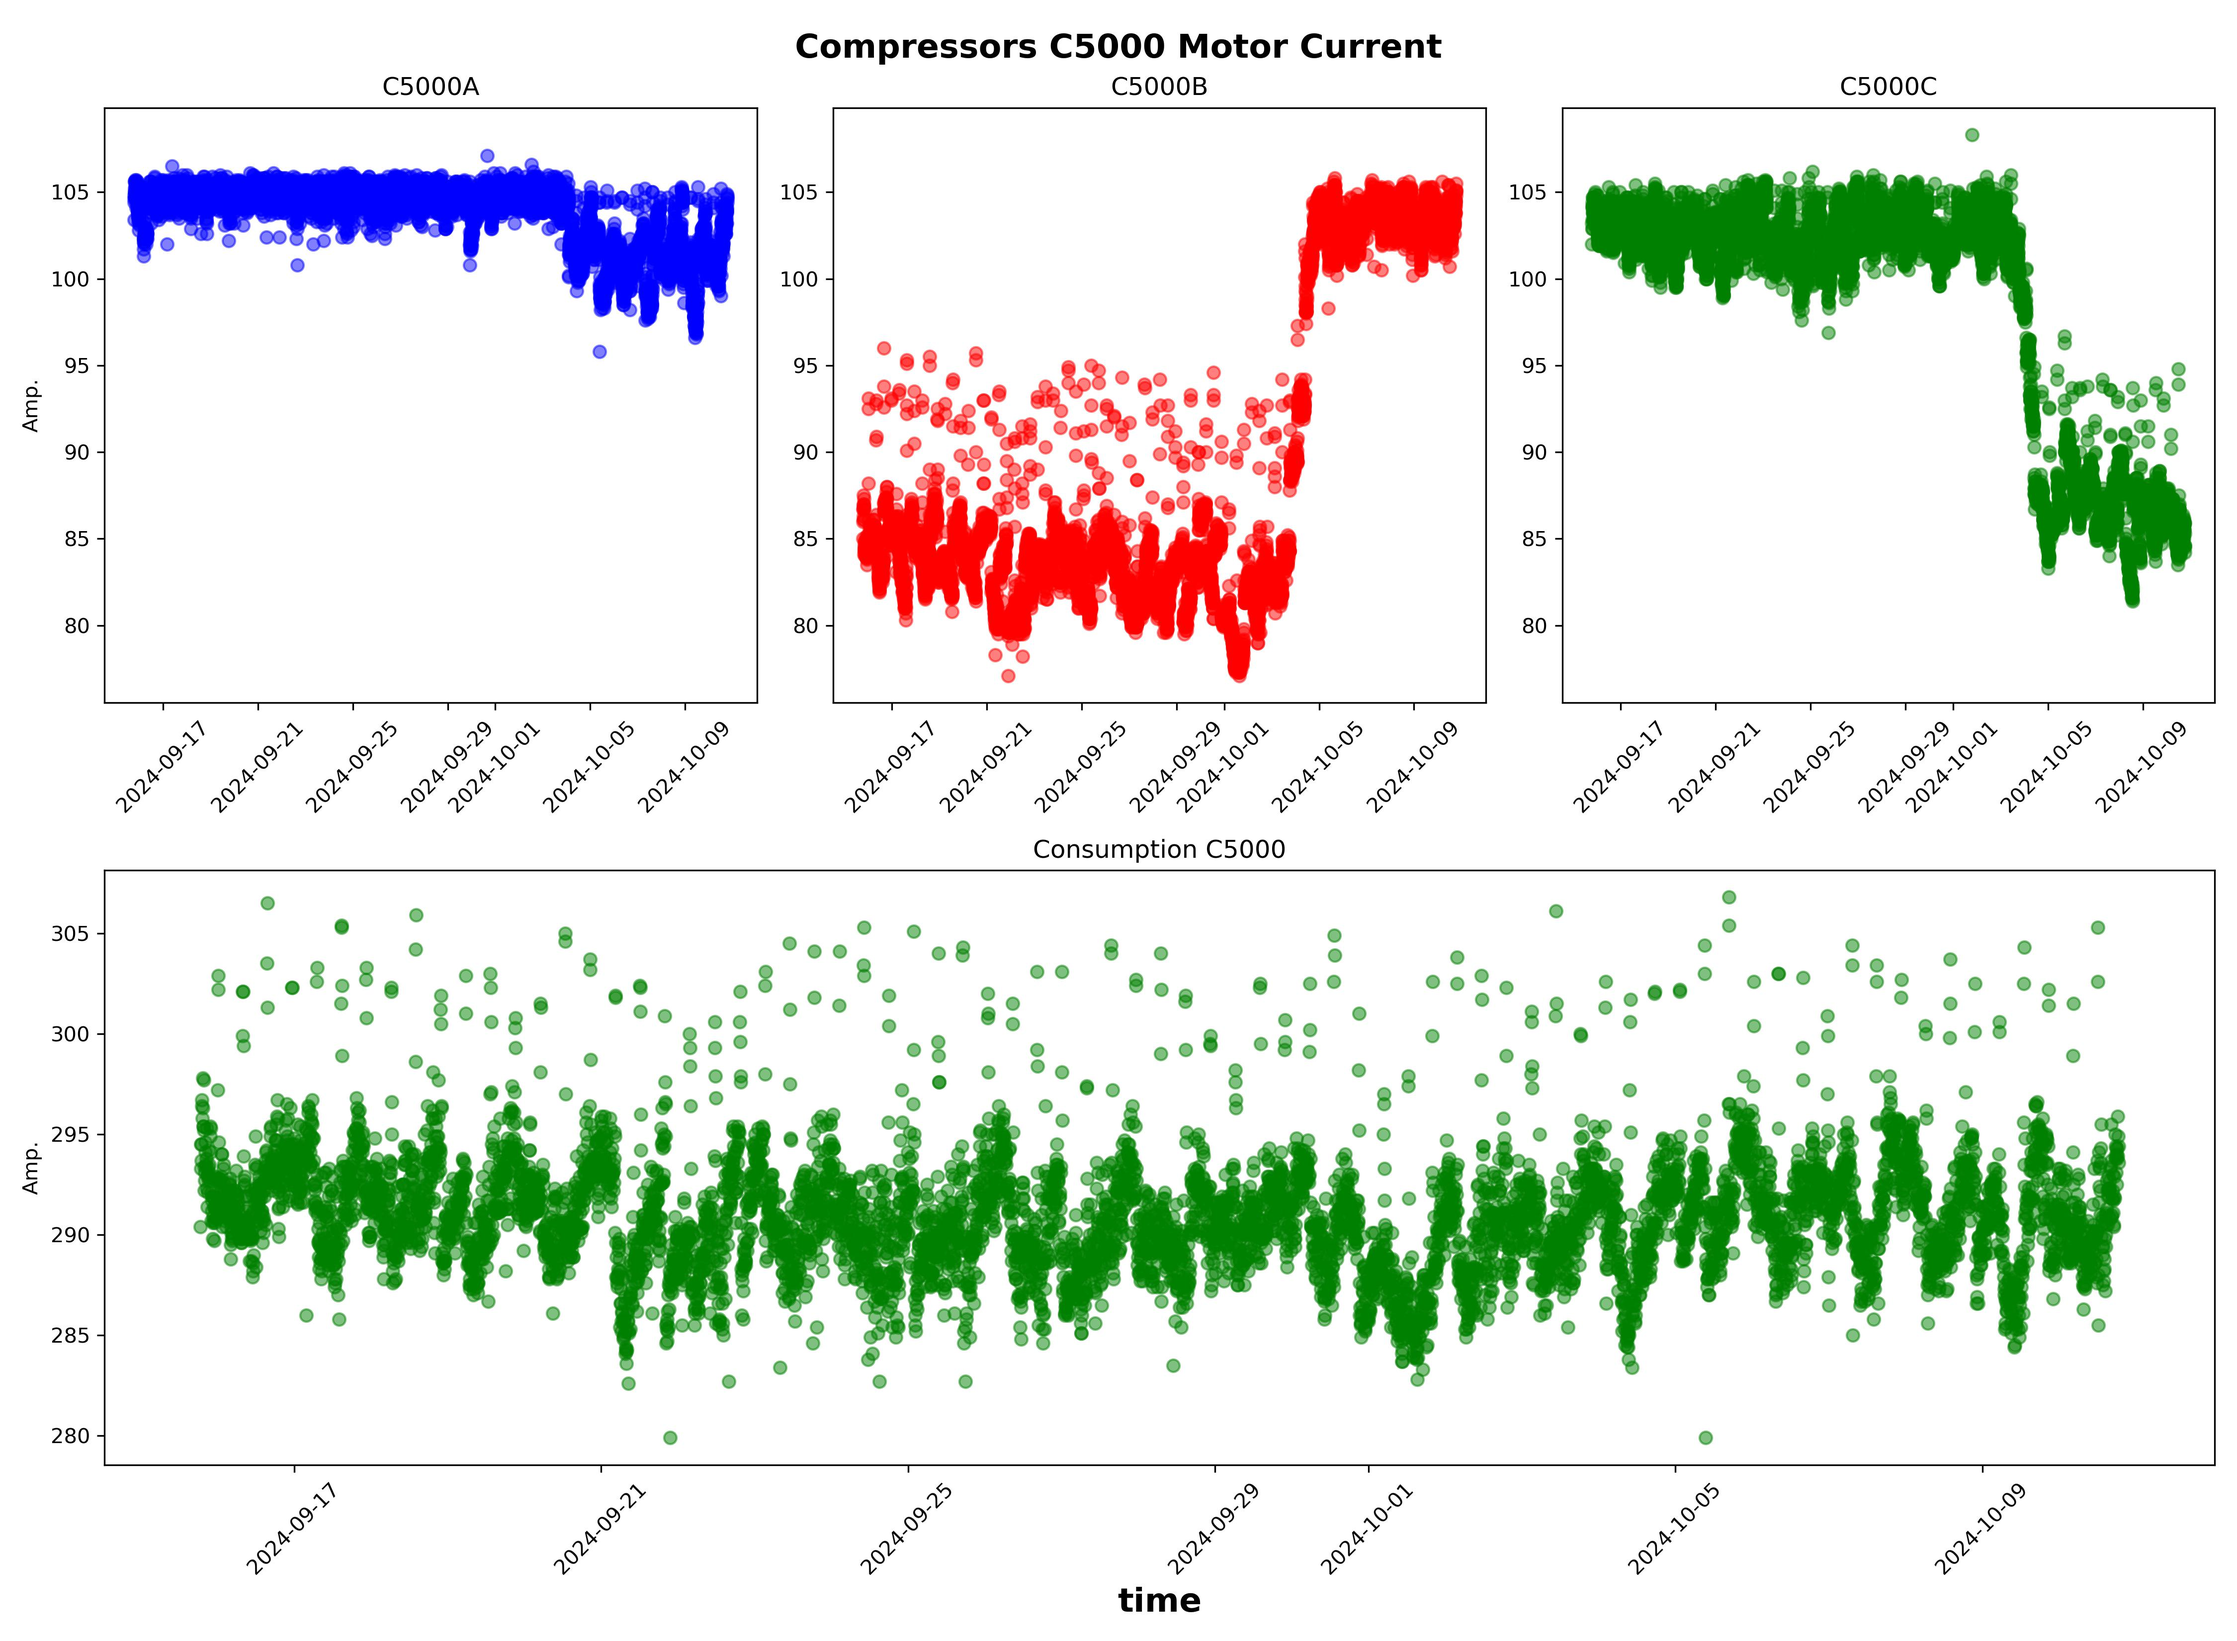
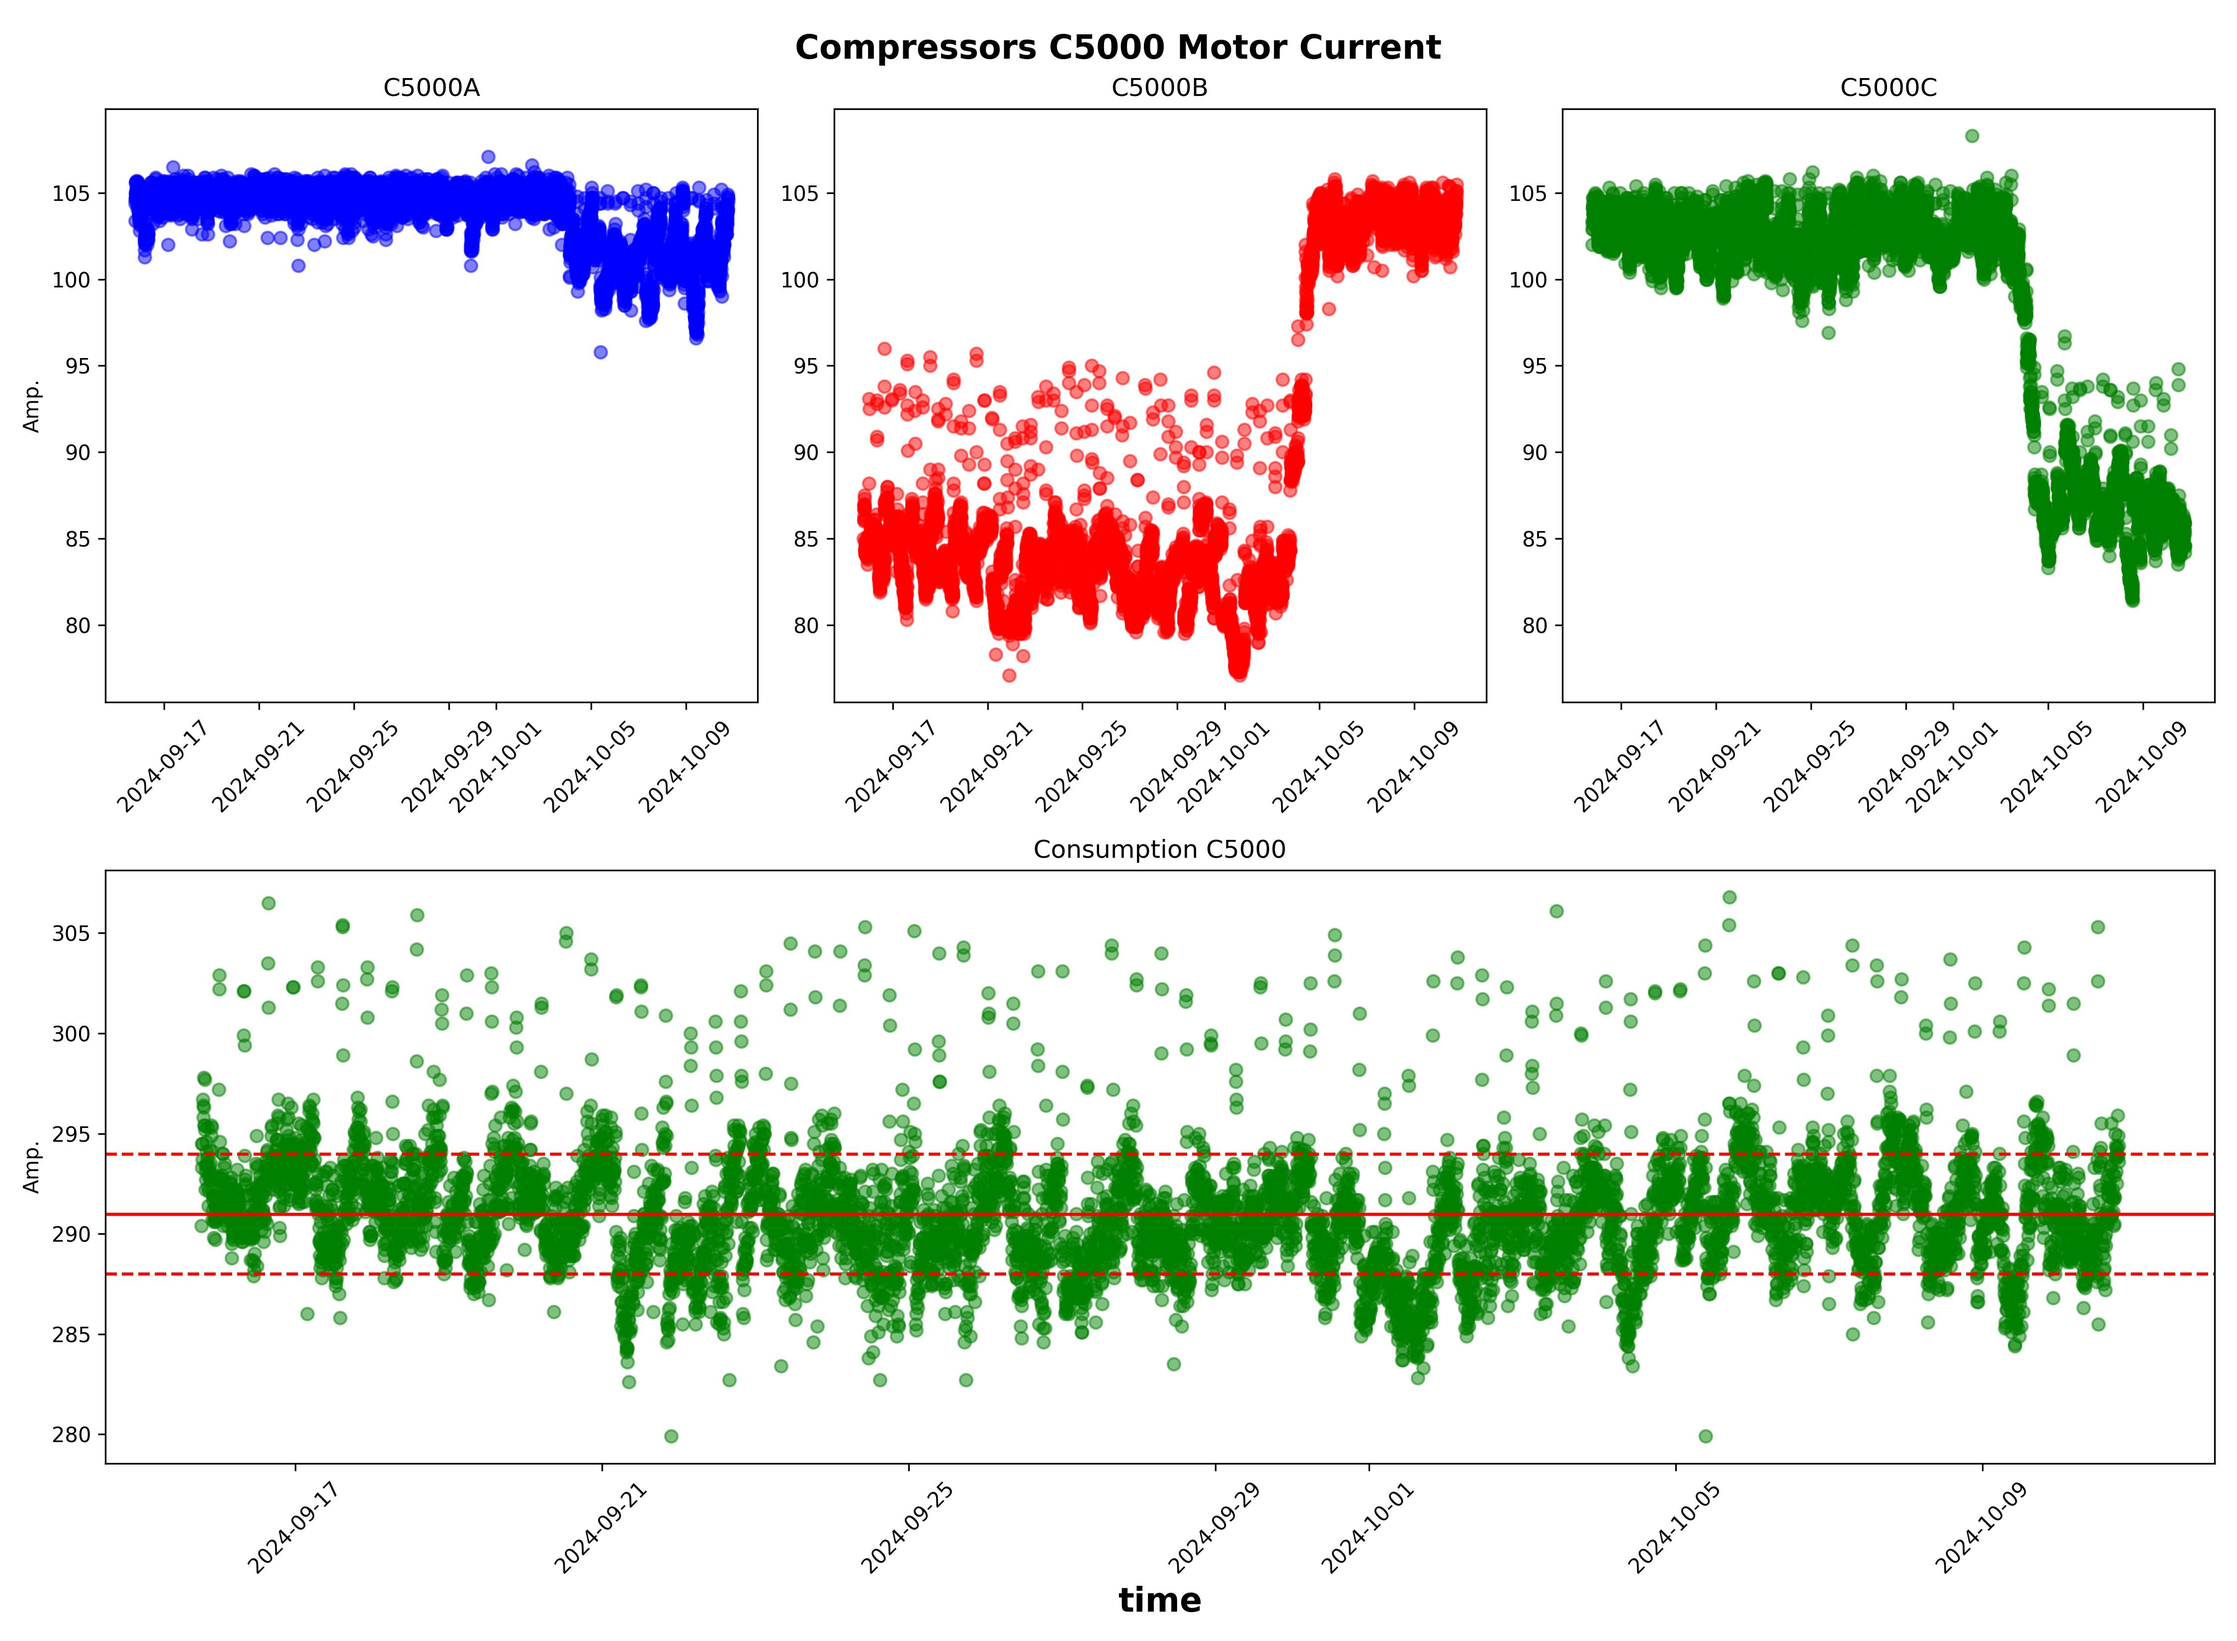
update

diff --git a/code/oxy.py b/code/oxy.py
@@ -45,10 +45,8 @@ def set_oxygen_purity_levels(x):
 #~~~~~~~~~~~~~~~~~~~~~~~~~~~~~~~~~~~~~~~~~~~~~~~~~~~~~~~
 
 #//data base preparation
-
 df = pd.read_csv(f"{working_dir}/data/Oxygen_Plant_24Days.csv")
 #print(df.info())
-
 
 #// add tarikh column
 df["tarikh"] = df["time"].apply(date_time_add)
@@ -57,7 +55,6 @@ df["tarikh"] = df["time"].apply(date_time_add)
 #// add C5000 total current
 df['C5000_total_current'] = df['CT001 Motor current (C5000A)']+df['CT001 Motor current (C5000B)']+df['CT001 Motor current (C5000C)']
 #print(df.tail())
-
 
 #// Normaliz Data
 normal_data = normalization(df.drop(["time","tarikh"] ,axis= 1))
@@ -79,16 +76,19 @@ ax1 = fig.subplots(1,1)
 sns.heatmap(corr, cbar=False,square= False, fmt='.1f', annot=True, annot_kws={'size':3}, cmap='Greens',ax= ax1)
 fig.tight_layout()
 #plt.savefig(f'{working_dir}/fig/Correlation_Coefficient.jpg')
-plt.show()
+#plt.show()
+fig.clear()
 
-#// Histogram of O2 production
+#// Histogram of Air production
 fig = plt.figure(figsize=(15,11),dpi=300)
-fig.suptitle('O2 Production', fontsize=16,fontweight='bold')
+fig.suptitle('Air Production After Dust Filter', fontsize=18,fontweight='bold')
 ax1 = fig.subplots(1,1)
+ax1.set_xlabel('FI580   (Nm3/h)', fontsize=16,fontweight='bold')
 sns.histplot(data=df["FI580 Vessel V5000B pressure"], binwidth=100 ,ax= ax1)
 fig.tight_layout()
 #plt.savefig(f'{working_dir}/fig/Production_Hist.jpg')
-plt.show()
+#plt.show()
+fig.clear()
 
 #// Compressors C5000 Motor Current
 fig = plt.figure(figsize=(15,11),dpi=300)
@@ -98,130 +98,162 @@ ax1=fig.add_subplot(gs[0,0])
 ax2=fig.add_subplot(gs[0,1], sharey=ax1)
 ax3=fig.add_subplot(gs[0,2], sharey=ax1)
 ax4=fig.add_subplot(gs[1,:])
-ax1.scatter(x=df['tarikh'], y= df['CT001 Motor current (C5000A)'], color='blue', label='y1',alpha=0.5)
+ax1.scatter(x=df['tarikh'], y= df['CT001 Motor current (C5000A)'], color='blue',alpha=0.5)
 ax1.set_title('C5000A')
 ax1.set_ylabel('Amp.')
 ax1.tick_params(axis="x",labelrotation=45)
-ax2.scatter(x=df['tarikh'], y= df['CT001 Motor current (C5000B)'], color='red', label='y2',alpha=0.5)
+ax2.scatter(x=df['tarikh'], y= df['CT001 Motor current (C5000B)'], color='red',alpha=0.5)
 ax2.set_title('C5000B')
 ax2.tick_params(axis="x",labelrotation=45)
-ax3.scatter(x=df['tarikh'], y= df['CT001 Motor current (C5000C)'], color='green', label='y3',alpha=0.5)
+ax3.scatter(x=df['tarikh'], y= df['CT001 Motor current (C5000C)'], color='green',alpha=0.5)
 ax3.set_title('C5000C')
 ax3.tick_params(axis="x",labelrotation=45)
-ax4.scatter(x=df['tarikh'], y= df['C5000_total_current'], color='green', label='y3',alpha=0.5)
+ax4.scatter(x=df['tarikh'], y= df['C5000_total_current'], color='green',alpha=0.5)
 ax4.set_title('Consumption C5000')
 ax4.tick_params(axis="x",labelrotation=45)
 ax4.set_xlabel('time', fontsize=16,fontweight='bold')
 ax4.set_ylabel('Amp.')
 fig.tight_layout()
+plt.axhline(df['C5000_total_current'].mean(), c='red')
+plt.axhline(df['C5000_total_current'].mean()+df['C5000_total_current'].std(), c='red',linestyle='--')
+plt.axhline(df['C5000_total_current'].mean()-df['C5000_total_current'].std(), c='red',linestyle='--')
+#plt.annotate('27793 RPM', xy =(27795, 0.0023),rotation = 90,ha='center', fontsize=6,alpha = 0.8)
 #plt.savefig(f'{working_dir}/fig/C5000_Motor_Currents.jpg')
-plt.show()
-
+#plt.show()
+fig.clear()
 
 #// Product VS C5000 Compressor Motor Currents
-sns.set(rc = {'figure.figsize':(15,11),'figure.dpi':300})
-sns.displot(
-    data=df,
-    x=df['CT001 Motor current (C5000A)'],
-    hue=df['levels'],
-    hue_order=['L1 (29500-29600)Nm3/h','L2 (29600-29700)Nm3/h','L3 (29700-29800)Nm3/h','L4 (29800-29900)Nm3/h','L5 (29900-30000)Nm3/h'],
-    kind="kde", height=6,
-    fill=True,
-    alpha = 0.05,
-)
+fig = plt.figure(figsize=(15,11),dpi=300)
+fig.suptitle('C5000A Comp. VS Air Production', fontsize=18,fontweight='bold')
+ax1 = fig.subplots(1,1)
+ax1.set_xlabel('Amp.', fontsize=16,fontweight='bold')
+ax1.set_ylabel('FI580   (Nm3/h)', fontsize=16,fontweight='bold')
+sns.kdeplot(data=df, x='CT001 Motor current (C5000A)', y='FI580 Vessel V5000B pressure',fill=True, levels=10)
+fig.tight_layout()
 #plt.savefig(f'{working_dir}/fig/Product-Current_C5000A.jpg')
-plt.show()
+#plt.show()
+fig.clear()
 
 #//Air turbine outlet pressure VS products
-sns.set(rc = {'figure.figsize':(15,11),'figure.dpi':300})
-sns.displot(
+fig = plt.figure(figsize=(15,11),dpi=300)
+fig.suptitle('Tubine Pressure VS Air Production', fontsize=18,fontweight='bold')
+ax1 = fig.subplots(1,1)
+ax1.set_xlabel('bar', fontsize=16,fontweight='bold')
+sns.kdeplot(
     data=df,
-    x=df['PI210 Air turbine/booster outlet pressure'],
-    hue=df['levels'],
+    x='PI210 Air turbine/booster outlet pressure',
+    hue='levels',
     hue_order=['L1 (29500-29600)Nm3/h','L2 (29600-29700)Nm3/h','L3 (29700-29800)Nm3/h','L4 (29800-29900)Nm3/h','L5 (29900-30000)Nm3/h'],
-    kind="kde", height=6,
     fill=True,
     alpha = 0.05,
 )
-#plt.savefig(f'{working_dir}/fig/trubine pressure Vs Products.jpg')
+fig.tight_layout()
+plt.savefig(f'{working_dir}/fig/trubine pressure Vs Products.jpg')
 plt.show()
+fig.clear()
 
 #//C5000 Compressor VS O2 Purity
-sns.set(rc = {'figure.figsize':(15,11),'figure.dpi':300})
-sns.displot(
+fig = plt.figure(figsize=(15,11),dpi=300)
+fig.suptitle('Amp. C5000 Comp. VS O2 Purity', fontsize=18,fontweight='bold')
+ax1 = fig.subplots(1,1)
+ax1.set_xlabel('Amp.', fontsize=16,fontweight='bold')
+sns.kdeplot(
     data=df,
-    x=df['C5000_total_current'],
-    hue=df['O2_Purity'],
-    #hue_order=['L1 (29500-29600)Nm3/h','L2 (29600-29700)Nm3/h','L3 (29700-29800)Nm3/h','L4 (29800-29900)Nm3/h','L5 (29900-30000)Nm3/h'],
-    kind="kde", height=6,
+    x='C5000_total_current',
+    hue='O2_Purity',
     fill=True,
     alpha = 0.05,
 )
 plt.axvline(290, c='green')
-plt.annotate('290 Amp.', xy =(289.5, 0.05),rotation = 90,ha='center', fontsize=6,alpha = 0.8)
+plt.annotate('290 Amp.', xy =(289.5, 0.05),rotation = 90,ha='center', fontsize=20,alpha = 0.8)
 plt.axvline(292.5, c='green')
-plt.annotate('292.5 Amp.', xy =(292, 0.05),rotation = 90,ha='center', fontsize=6,alpha = 0.8)
+plt.annotate('292.5 Amp.', xy =(292, 0.05),rotation = 90,ha='center', fontsize=20,alpha = 0.8)
+fig.tight_layout()
 plt.savefig(f'{working_dir}/fig/C5000 Amp VS O2 purity.jpg')
-plt.show()
-
-
-
+#plt.show()
+fig.clear()
 
 #// Air turbine outlet Temprature VS pressure
 fig = plt.figure(figsize=(15,11),dpi=300)
-fig.suptitle('Air turbine outlet', fontsize=16,fontweight='bold')
+fig.suptitle('Air turbine outlet', fontsize=18,fontweight='bold')
 (ax1,ax2) = fig.subplots(1,2,sharex=True,sharey=True)
 ax1.scatter(x=df['PI210 Air turbine/booster outlet pressure'], y= df['TI210A Air turbine T2000A outlet temperature'], color='blue', label='y1',alpha=0.5)
-ax1.set_title('Turbine A')
-ax1.set_ylabel('Temp.')
+ax1.set_title('Turbine A', fontsize=16,fontweight='bold')
+ax1.set_ylabel('Temp.', fontsize=16,fontweight='bold')
 ax2.scatter(x=df['PI210 Air turbine/booster outlet pressure'], y= df['TI210B Air turbine T2000A outlet temperature'], color='red', label='y2',alpha=0.5)
-ax2.set_title('Turbine B')
-ax2.set_xlabel('Pressure (bar)')
+ax2.set_title('Turbine B', fontsize=16,fontweight='bold')
+ax2.set_xlabel('Pressure (bar)', fontsize=16,fontweight='bold')
 fig.tight_layout()
-#plt.savefig(f'{working_dir}/fig/trubine pressure Vs Temprature.jpg')
-plt.show()
+plt.savefig(f'{working_dir}/fig/trubine pressure Vs Temprature.jpg')
+#plt.show()
+fig.clear()
 
 
 #//pie chart for product-current
-plt.figure(figsize=(10,7),dpi=300)
-df.groupby("levels")['C5000_total_current'].mean().plot.pie(autopct='%.2f', textprops={'fontsize': 18})
+fig = plt.figure(figsize=(15,11),dpi=300)
+fig.suptitle('Amp. C5000 Comp. VS Air Production', fontsize=18,fontweight='bold')
+ax1 = fig.subplots(1,1)
+#print(df.groupby("levels")['C5000_total_current'].mean().index)
+ax1.pie(
+    x=df.groupby("levels")['C5000_total_current'].mean(),
+    autopct = '%.2f%%',
+    textprops={'fontsize': 18},
+    labels=df.groupby("levels")['C5000_total_current'].mean().index,
+    )
+fig.tight_layout()
 #plt.savefig(f'{working_dir}/fig/product_current_pie.jpg')
-plt.show()
+#plt.show()
+fig.clear()
+
 
 #// Histogram of O2 purity
 fig = plt.figure(figsize=(15,11),dpi=300)
 fig.suptitle('O2 Production', fontsize=16,fontweight='bold')
 ax1 = fig.subplots(1,1)
+ax1.set_xlabel('AI1 Product gaseous (liquid) oxygen purity', fontsize=16,fontweight='bold')
 sns.histplot(data=df["AI1 Product gaseous (liquid) oxygen purity"] ,ax= ax1)
 fig.tight_layout()
 #plt.savefig(f'{working_dir}/fig/O2_Purity_Hist.jpg')
-plt.show()
+#plt.show()
+fig.clear()
 
 #//pie chart of O2 Purity conditions
-plt.figure(figsize=(10,7),dpi=300)
-df['O2_Purity'].value_counts().plot.pie(autopct = '%.2f', textprops={'fontsize': 18})
-plt.savefig(f'{working_dir}/fig/O2_purity_pie.jpg')
-plt.show()
+fig = plt.figure(figsize=(15,11),dpi=300)
+fig.suptitle('O2 Purity', fontsize=30,fontweight='bold')
+ax1 = fig.subplots(1,1)
+ax1.pie(
+    x=df['O2_Purity'].value_counts(),
+    autopct = '%.2f%%',
+    textprops={'fontsize': 28},
+    labels=df['O2_Purity'].value_counts().index,
+    )
+fig.tight_layout()
+#plt.savefig(f'{working_dir}/fig/O2_purity_pie.jpg')
+#plt.show()
+fig.clear()
 
-#// Product VS C5000 Compressor Motor Currents
-sns.set(rc = {'figure.figsize':(15,11),'figure.dpi':300})
-sns.displot(
+
+
+#// turbine Speed VS O2 Purity
+fig = plt.figure(figsize=(15,11),dpi=300)
+fig.suptitle('Turbine Speed VS O2 Purity', fontsize=18,fontweight='bold')
+ax1 = fig.subplots(1,1)
+ax1.set_xlabel('RPM', fontsize=16,fontweight='bold')
+sns.kdeplot(
     data=df,
-    x=df['SIC401B - PV Air turbine/booster T/C2000B speed'],
-    hue=df['O2_Purity'],
-    #hue_order=['L1 (29500-29600)Nm3/h','L2 (29600-29700)Nm3/h','L3 (29700-29800)Nm3/h','L4 (29800-29900)Nm3/h','L5 (29900-30000)Nm3/h'],
-    kind="kde", height=6,
+    x='SIC401B - PV Air turbine/booster T/C2000B speed',
+    hue='O2_Purity',
     fill=True,
     alpha = 0.05,
 )
 plt.axvline(27793, c='green')
-plt.annotate('27793 RPM', xy =(27795, 0.0023),rotation = 90,ha='center', fontsize=6,alpha = 0.8) 
+plt.annotate('27793 RPM', xy =(27787, 0.0023),rotation = 90,ha='center', fontsize=18,alpha = 0.8) 
 #plt.axvline(210, c='red')
 #plt.annotate('224', xy =(224, 0.009),rotation = 90,ha='center', fontsize=16) 
-#plt.savefig(f'{working_dir}/fig/tubine-speed-O2-purity.jpg')
-plt.show()
-
-
-
+fig.tight_layout()
+plt.savefig(f'{working_dir}/fig/tubine-speed-O2-purity.jpg')
+#plt.show()
+fig.clear()
 
 #df.to_excel(f"{working_dir}/fig/output.xlsx",index=False)
+
